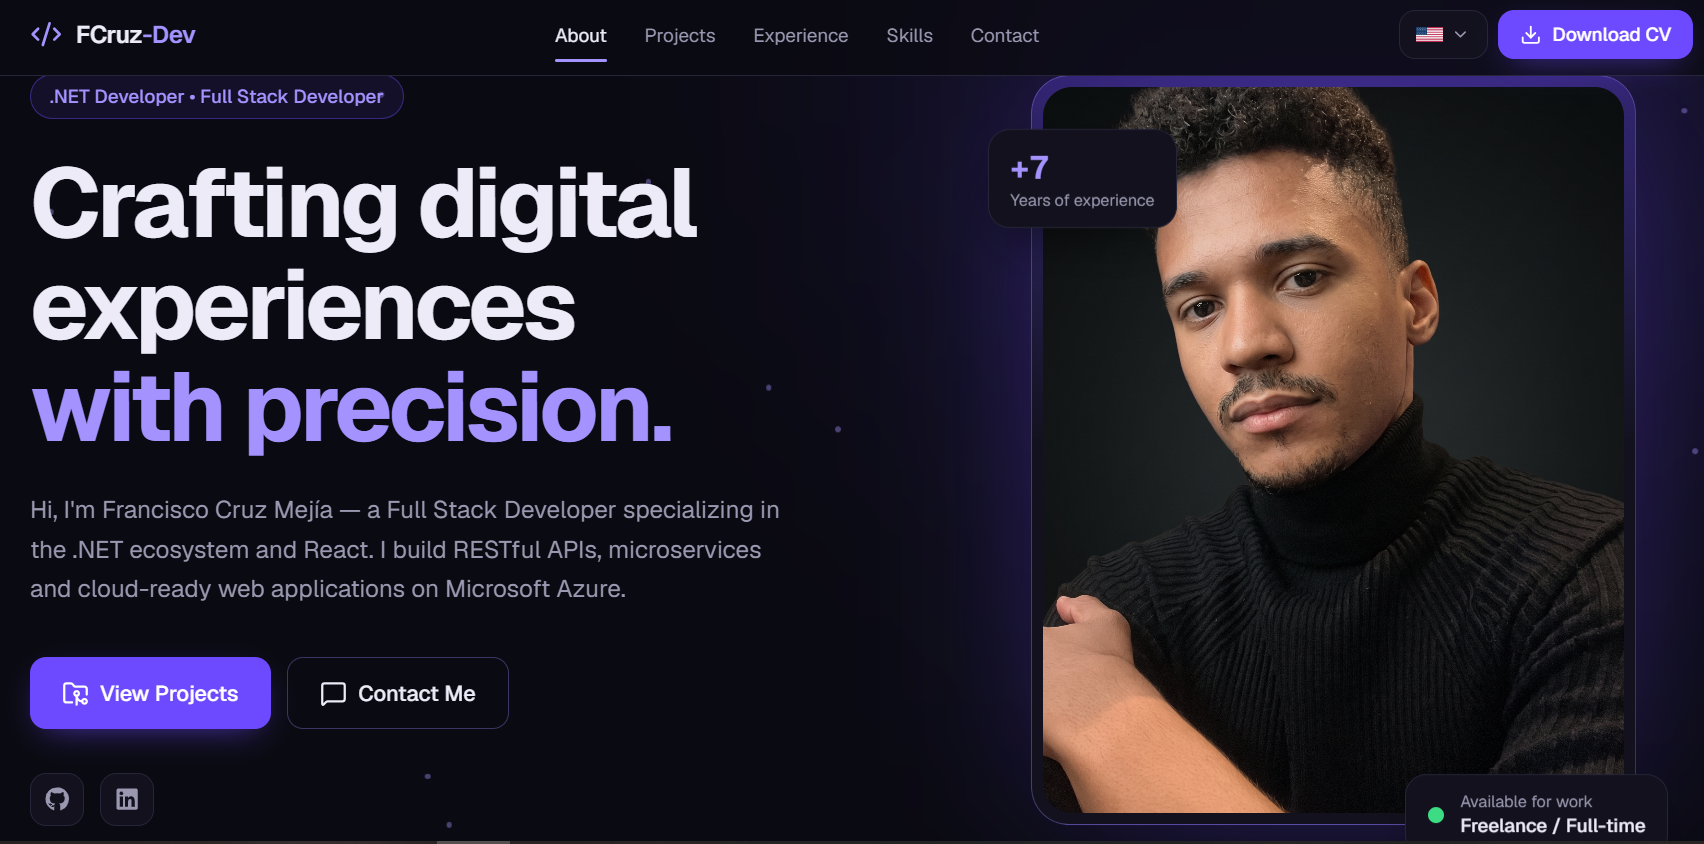
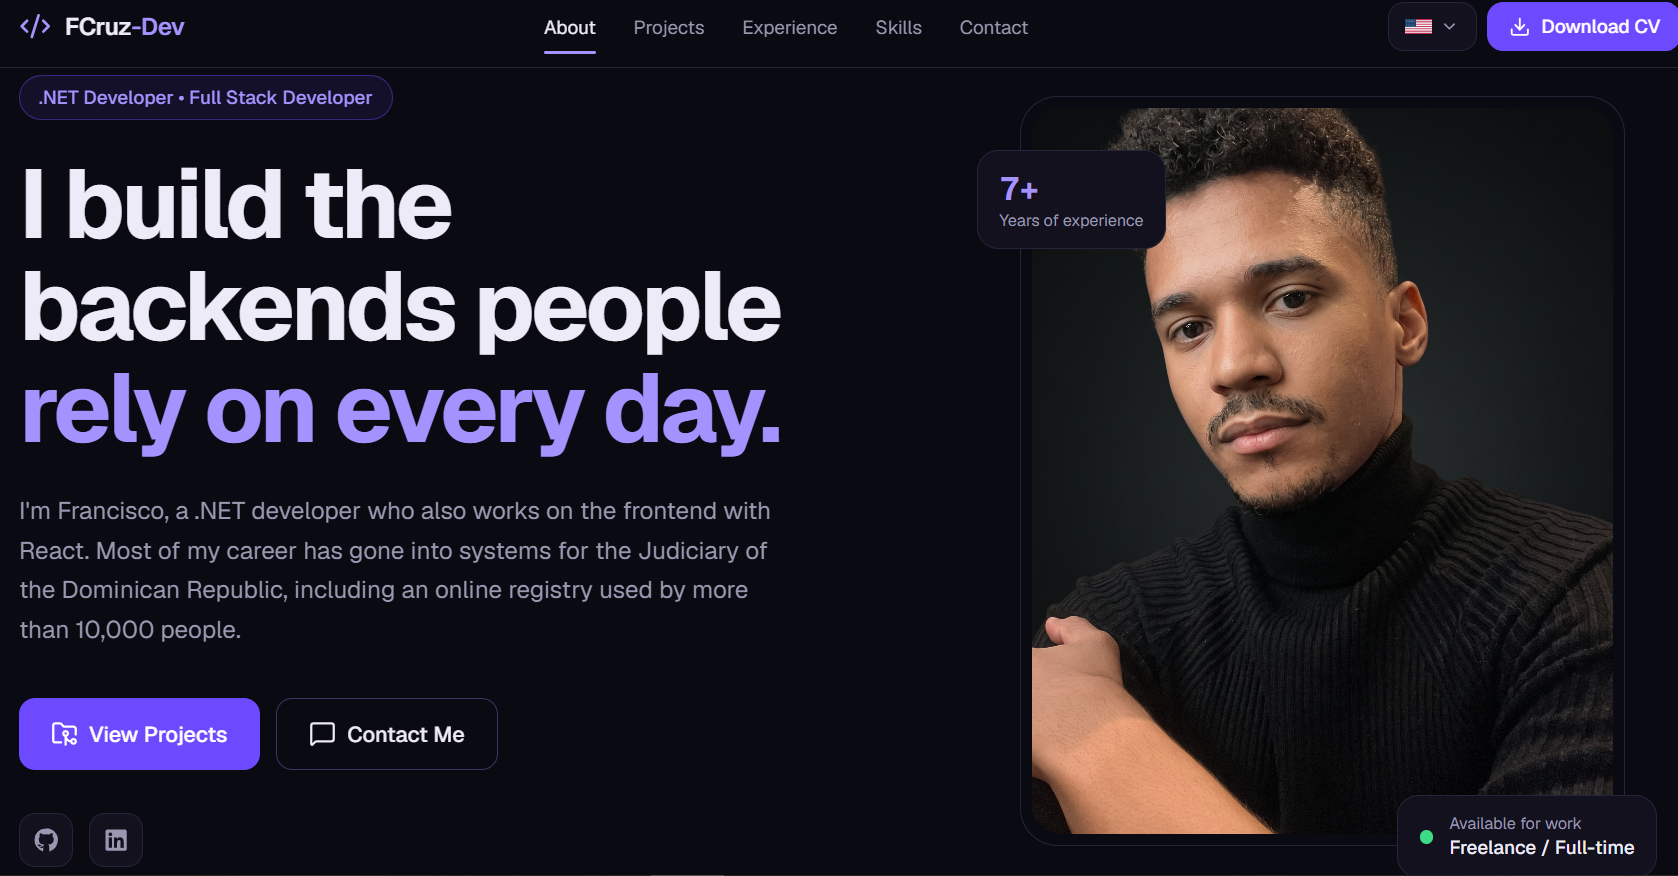
feat(content): replace the generic copy with concrete facts
New hero title ("I build the backends people rely on every day."),
About highlights that name real work (10,000+ users, async payments
with RabbitMQ, Redis caching, Azure DevOps releases), and a shorter,
plainer contact section. The mission quote is gone, with its field.
"+7" years reads "7+". The project screenshot shows the new hero.

diff --git a/src/locales/es/highlights.ts b/src/locales/es/highlights.ts
@@ -3,27 +3,27 @@ import type { Highlight } from "@/types/content";
 
 export const highlights = [
   {
-    icon: highlightIcons.cleanCode,
-    title: "Código limpio",
+    icon: highlightIcons.users,
+    title: "Más de 10.000 usuarios",
     description:
-      "Patrones de diseño, principios SOLID y Clean Architecture para un código que se mantiene en el tiempo.",
+      "La Oficina Virtual de Registro Inmobiliario permite a los ciudadanos hacer trámites de propiedades y pagar en línea.",
   },
   {
-    icon: highlightIcons.fullStack,
-    title: "Full Stack",
+    icon: highlightIcons.payments,
+    title: "Pagos asíncronos",
     description:
-      "De APIs y microservicios con ASP.NET Core a interfaces en React, de principio a fin.",
+      "Pasé el procesamiento de pagos a RabbitMQ para que una respuesta lenta del banco no bloquee al usuario.",
   },
   {
-    icon: highlightIcons.cloud,
-    title: "Cloud y DevOps",
+    icon: highlightIcons.caching,
+    title: "Respuestas más rápidas",
     description:
-      "Pipelines CI/CD con Azure DevOps y despliegues en Azure App Service.",
+      "Guardé en caché con Redis las consultas frecuentes para quitarle carga a SQL Server.",
   },
   {
-    icon: highlightIcons.teamwork,
-    title: "Trabajo en equipo ágil",
+    icon: highlightIcons.releases,
+    title: "Despliegues automatizados",
     description:
-      "Habituado a entornos dinámicos y equipos Scrum, enfocado en resultados.",
+      "Pipelines CI/CD en Azure DevOps que despliegan en Azure App Service.",
   },
 ] as const satisfies readonly Highlight[];

diff --git a/src/locales/it/highlights.ts b/src/locales/it/highlights.ts
@@ -3,27 +3,27 @@ import type { Highlight } from "@/types/content";
 
 export const highlights = [
   {
-    icon: highlightIcons.cleanCode,
-    title: "Codice pulito",
+    icon: highlightIcons.users,
+    title: "Oltre 10.000 utenti",
     description:
-      "Design pattern, principi SOLID e Clean Architecture per un codice che resta manutenibile.",
+      "L'Ufficio Virtuale del Registro Immobiliare permette ai cittadini di gestire le pratiche immobiliari e pagare online.",
   },
   {
-    icon: highlightIcons.fullStack,
-    title: "Full Stack",
+    icon: highlightIcons.payments,
+    title: "Pagamenti asincroni",
     description:
-      "Dalle API e microservizi in ASP.NET Core alle interfacce in React, end to end.",
+      "Ho spostato l'elaborazione dei pagamenti su RabbitMQ, così una risposta lenta della banca non blocca l'utente.",
   },
   {
-    icon: highlightIcons.cloud,
-    title: "Cloud e DevOps",
+    icon: highlightIcons.caching,
+    title: "Risposte più rapide",
     description:
-      "Pipeline CI/CD con Azure DevOps e deployment su Azure App Service.",
+      "Ho messo in cache con Redis le query più frequenti per alleggerire SQL Server.",
   },
   {
-    icon: highlightIcons.teamwork,
-    title: "Lavoro di squadra Agile",
+    icon: highlightIcons.releases,
+    title: "Rilasci automatizzati",
     description:
-      "Abituato ad ambienti dinamici e team Scrum, orientato ai risultati.",
+      "Pipeline CI/CD su Azure DevOps con deploy su Azure App Service.",
   },
 ] as const satisfies readonly Highlight[];

diff --git a/src/locales/en/highlights.ts b/src/locales/en/highlights.ts
@@ -3,27 +3,27 @@ import type { Highlight } from "@/types/content";
 
 export const highlights = [
   {
-    icon: highlightIcons.cleanCode,
-    title: "Clean Code",
+    icon: highlightIcons.users,
+    title: "10,000+ users",
     description:
-      "Design patterns, SOLID principles and Clean Architecture for code that stays maintainable.",
+      "The Virtual Real Estate Registration Office lets citizens handle property procedures and pay online.",
   },
   {
-    icon: highlightIcons.fullStack,
-    title: "Full Stack",
+    icon: highlightIcons.payments,
+    title: "Async payments",
     description:
-      "From ASP.NET Core APIs and microservices to React interfaces, end to end.",
+      "Moved payment processing to RabbitMQ so a slow bank response doesn't block the user.",
   },
   {
-    icon: highlightIcons.cloud,
-    title: "Cloud & DevOps",
+    icon: highlightIcons.caching,
+    title: "Faster responses",
     description:
-      "CI/CD pipelines with Azure DevOps and deployments on Azure App Service.",
+      "Cached frequent queries with Redis to take load off SQL Server.",
   },
   {
-    icon: highlightIcons.teamwork,
-    title: "Agile Teamwork",
+    icon: highlightIcons.releases,
+    title: "Automated releases",
     description:
-      "Used to dynamic environments and Scrum teams, focused on results.",
+      "CI/CD pipelines on Azure DevOps, deploying to Azure App Service.",
   },
 ] as const satisfies readonly Highlight[];

diff --git a/src/locales/es/ui.ts b/src/locales/es/ui.ts
@@ -13,8 +13,8 @@ export const ui = {
     rightsReserved: "Todos los derechos reservados.",
   },
   hero: {
-    titleStart: "Creando experiencias digitales",
-    titleAccent: "con precisión.",
+    titleStart: "Construyo los backends en los que la gente",
+    titleAccent: "confía cada día.",
     viewProjects: "Ver proyectos",
     contactMe: "Contáctame",
   },
@@ -55,13 +55,12 @@ export const ui = {
     showTestimonial: (position, total) => `Mostrar testimonio ${position} de ${total}`,
   },
   contact: {
-    titleStart: "Construyamos",
-    titleAccent: "algo increíble.",
+    titleStart: "Escríbeme y",
+    titleAccent: "hablamos.",
     intro:
-      "¿Tienes un proyecto en mente? Me encantaría conocerlo. Envíame un mensaje y hablemos de cómo podemos trabajar juntos.",
-    availableTitle: "Disponible actualmente",
-    availableText:
-      "Estoy abierto a nuevas oportunidades y proyectos interesantes. Tanto si buscas un ingeniero a tiempo completo como un consultor freelance, ¡hablemos!",
+      "Cuéntame sobre el proyecto o el puesto y te respondo en uno o dos días.",
+    availableTitle: "Disponible para trabajar",
+    availableText: "A tiempo completo o freelance, en remoto o presencial.",
     form: {
       nameLabel: "Nombre",
       namePlaceholder: "Tu nombre...",

diff --git a/src/locales/it/ui.ts b/src/locales/it/ui.ts
@@ -13,8 +13,8 @@ export const ui = {
     rightsReserved: "Tutti i diritti riservati.",
   },
   hero: {
-    titleStart: "Creo esperienze digitali",
-    titleAccent: "con precisione.",
+    titleStart: "Costruisco i backend su cui le persone",
+    titleAccent: "contano ogni giorno.",
     viewProjects: "Vedi i progetti",
     contactMe: "Contattami",
   },
@@ -55,13 +55,12 @@ export const ui = {
     showTestimonial: (position, total) => `Mostra testimonianza ${position} di ${total}`,
   },
   contact: {
-    titleStart: "Costruiamo",
-    titleAccent: "qualcosa di grande.",
+    titleStart: "Scrivimi e",
+    titleAccent: "ne parliamo.",
     intro:
-      "Hai un progetto in mente? Mi piacerebbe saperne di più. Scrivimi un messaggio e parliamo di come possiamo lavorare insieme.",
-    availableTitle: "Attualmente disponibile",
-    availableText:
-      "Sono aperto a nuove opportunità e progetti stimolanti. Che tu cerchi un ingegnere a tempo pieno o un consulente freelance, parliamone!",
+      "Raccontami il progetto o la posizione e ti rispondo entro un giorno o due.",
+    availableTitle: "Disponibile a lavorare",
+    availableText: "A tempo pieno o freelance, da remoto o in sede.",
     form: {
       nameLabel: "Nome",
       namePlaceholder: "Il tuo nome...",

diff --git a/src/locales/en/ui.ts b/src/locales/en/ui.ts
@@ -13,8 +13,8 @@ export const ui = {
     rightsReserved: "All rights reserved.",
   },
   hero: {
-    titleStart: "Crafting digital experiences",
-    titleAccent: "with precision.",
+    titleStart: "I build the backends people",
+    titleAccent: "rely on every day.",
     viewProjects: "View Projects",
     contactMe: "Contact Me",
   },
@@ -55,13 +55,12 @@ export const ui = {
     showTestimonial: (position, total) => `Show testimonial ${position} of ${total}`,
   },
   contact: {
-    titleStart: "Let's build",
-    titleAccent: "something great.",
+    titleStart: "Let's",
+    titleAccent: "talk.",
     intro:
-      "Have a project in mind? I'd love to hear about it. Send me a message and let's discuss how we can work together.",
-    availableTitle: "Currently Available",
-    availableText:
-      "I'm currently open to new opportunities and exciting projects. Whether you need a full-time engineer or a freelance consultant, let's talk!",
+      "Write me about the project or the role, and I'll answer within a day or two.",
+    availableTitle: "Open to work",
+    availableText: "Full-time or freelance, remote or on-site.",
     form: {
       nameLabel: "Name",
       namePlaceholder: "Your name...",

diff --git a/src/locales/es/profile.ts b/src/locales/es/profile.ts
@@ -14,6 +14,4 @@ export const about = {
     "Diseño APIs RESTful y microservicios con ASP.NET Core, trabajo con SQL Server, Redis y RabbitMQ, y despliego mediante pipelines CI/CD en Microsoft Azure. En el frontend, construyo interfaces responsivas con React, TypeScript y Tailwind CSS.",
     "Soy un profesional orientado a resultados, habituado a entornos dinámicos y equipos Agile (Scrum), y me apoyo en patrones de diseño, principios SOLID y Clean Architecture para que los sistemas sigan siendo mantenibles.",
   ],
-  mission:
-    "Mi misión es crear software fiable y mantenible que resuelva problemas reales, como una plataforma que permite a más de 10.000 ciudadanos realizar trámites inmobiliarios en línea.",
 } as const satisfies AboutContent;

diff --git a/src/locales/it/profile.ts b/src/locales/it/profile.ts
@@ -14,6 +14,4 @@ export const about = {
     "Progetto API RESTful e microservizi con ASP.NET Core, lavoro con SQL Server, Redis e RabbitMQ, e rilascio tramite pipeline CI/CD su Microsoft Azure. Sul frontend, creo interfacce responsive con React, TypeScript e Tailwind CSS.",
     "Sono un professionista orientato ai risultati, abituato ad ambienti dinamici e a team Agile (Scrum), e mi affido a design pattern, principi SOLID e Clean Architecture per mantenere i sistemi manutenibili.",
   ],
-  mission:
-    "La mia missione è creare software affidabile e manutenibile che risolva problemi reali, come una piattaforma che permette a oltre 10.000 cittadini di gestire online le pratiche immobiliari.",
 } as const satisfies AboutContent;

diff --git a/src/locales/en/profile.ts b/src/locales/en/profile.ts
@@ -14,6 +14,4 @@ export const about = {
     "I design RESTful APIs and microservices with ASP.NET Core, work with SQL Server, Redis and RabbitMQ, and ship through CI/CD pipelines on Microsoft Azure. On the frontend, I build responsive interfaces with React, TypeScript and Tailwind CSS.",
     "I'm a results-oriented professional, used to dynamic environments and Agile (Scrum) teams, and I rely on design patterns, SOLID principles and Clean Architecture to keep systems maintainable.",
   ],
-  mission:
-    "My mission is to build reliable, maintainable software that solves real problems — like a platform that lets more than 10,000 citizens handle property procedures online.",
 } as const satisfies AboutContent;

diff --git a/src/data/highlights.ts b/src/data/highlights.ts
@@ -1,10 +1,10 @@
-import { Cloud, Code2, Layers, Users } from "lucide-react";
+import { GitBranch, Users, Workflow, Zap } from "lucide-react";
 import type { LucideIcon } from "lucide-react";
 
 // One icon per highlight; each locale adds the title and description.
 export const highlightIcons = {
-  cleanCode: Code2,
-  fullStack: Layers,
-  cloud: Cloud,
-  teamwork: Users,
+  users: Users,
+  payments: Workflow,
+  caching: Zap,
+  releases: GitBranch,
 } as const satisfies Record<string, LucideIcon>;

diff --git a/src/sections/about/About.tsx b/src/sections/about/About.tsx
@@ -23,10 +23,6 @@ export const About = (): ReactElement => {
                 {paragraph}
               </p>
             ))}
-
-            <blockquote className="mt-8 border-l border-accent/60 pl-5 text-lg font-medium leading-relaxed text-foreground">
-              “{about.mission}”
-            </blockquote>
           </div>
 
           <ul className="panel divide-y divide-border self-start rounded-2xl">

diff --git a/src/data/profile.ts b/src/data/profile.ts
@@ -9,6 +9,6 @@ export const profileBase = {
     src: "/profile-photo.jpg",
     alt: "Francisco Cruz Mejía",
   },
-  yearsOfExperience: "+7",
+  yearsOfExperience: "7+",
   allProjectsUrl: "https://github.com/enmanuel93?tab=repositories",
 } as const satisfies Omit<Profile, "headline" | "bio" | "cvUrl">;
